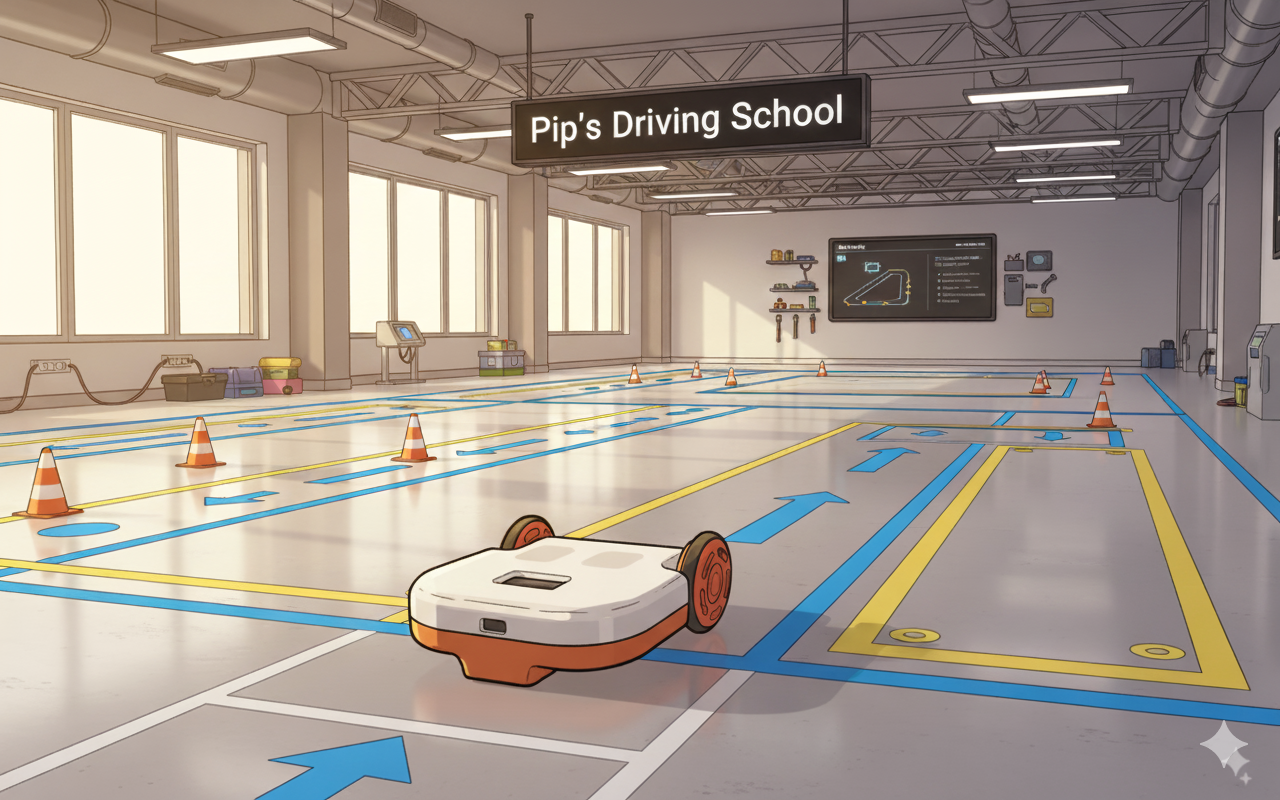
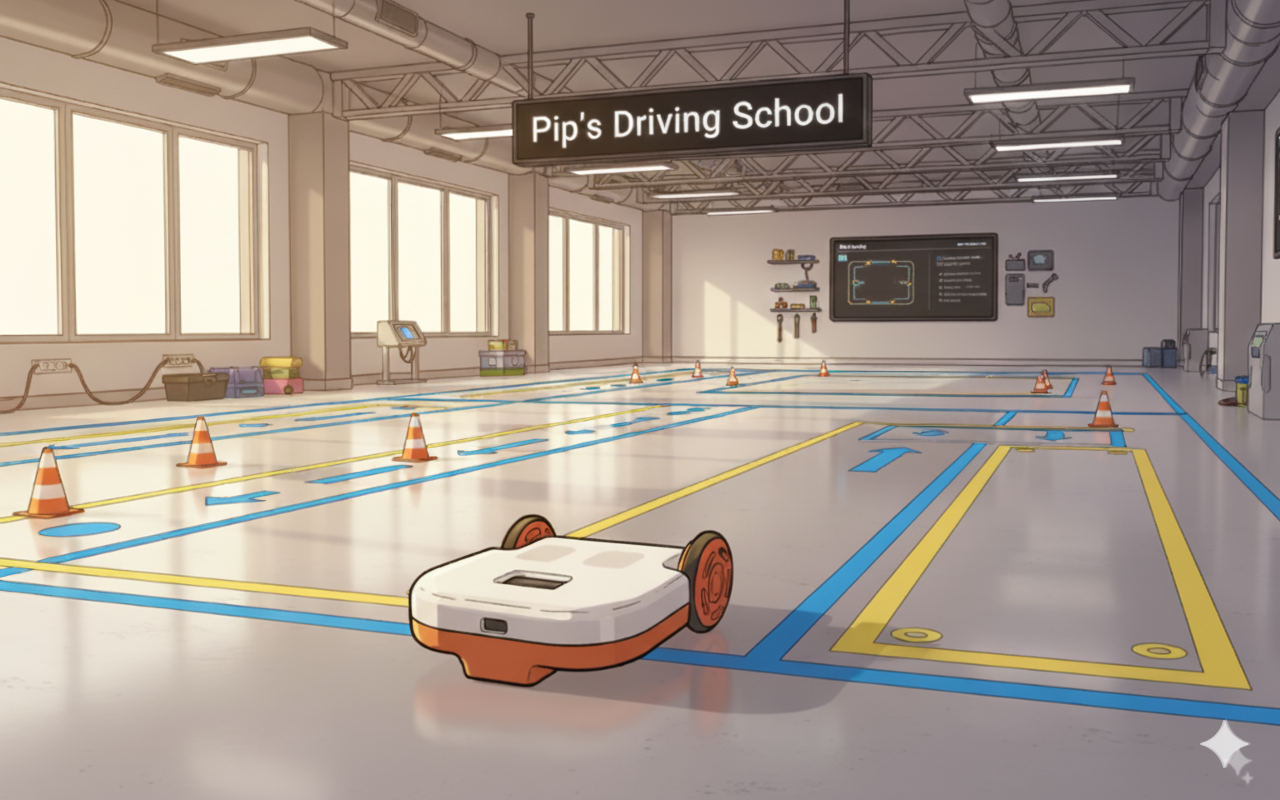
Cleanup

diff --git a/src/components/sandbox/view-only-sandbox/view-only-sandbox.tsx b/src/components/sandbox/view-only-sandbox/view-only-sandbox.tsx
@@ -3,7 +3,7 @@
 import * as Blockly from "blockly"
 import { observer } from "mobx-react"
 import { BlocklyWorkspace } from "react-blockly"
-import { useCallback, useEffect, useMemo, useRef, useState } from "react"
+import { useCallback, useEffect, useMemo, useRef } from "react"
 import { cn } from "../../../lib/shadcn/utils"
 import personalInfoClass from "../../../classes/personal-info-class"
 import initializeBlocks from "../../../utils/blockly/initialize-blocks"
@@ -18,62 +18,54 @@ interface Props {
 function ViewOnlySandbox(props: Props): React.ReactNode {
 	const {
 		blocklyJson,
-		extraClasses = "h-1/2",
+		extraClasses = "h-full",
 	} = props
 	const isDarkMode = personalInfoClass.defaultSiteTheme === "dark"
 	const containerRef = useRef<HTMLDivElement>(null)
 	const workspaceRef = useRef<Blockly.WorkspaceSvg | null>(null)
-	const [isCentered, setIsCentered] = useState(false)
 	console.log("blocklyJson", blocklyJson)
 
 	const workspaceConfiguration = useMemo((): Blockly.BlocklyOptions => {
 		return getWorkspaceConfig(isDarkMode, true)
 	}, [isDarkMode])
 
-	const centerWorkspace = useCallback((): void => {
-		const workspace = workspaceRef.current
-		if (!workspace) return
-
-		// Set the scale to the start scale
-		workspace.setScale(workspaceConfiguration.zoom?.startScale || 1)
-
-		// Center the workspace
-		workspace.scrollCenter()
-		setIsCentered(true)
-	}, [workspaceConfiguration.zoom?.startScale])
-
 	const handleWorkspaceChange = useCallback((workspace: Blockly.WorkspaceSvg): void => {
+		console.log("workspaceChange", workspace)
 		workspaceRef.current = workspace
+	}, [])
 
-		// Center workspace on first initialization
-		if (!isCentered) {
-			// Use a small timeout to ensure the workspace is fully rendered
-			setTimeout((): void => {
-				centerWorkspace()
-			}, 100)
-		}
-	}, [isCentered, centerWorkspace])
-
-	// Reset isCentered when blocklyJson changes
-	useEffect((): void => {
-		setIsCentered(false)
-	}, [blocklyJson])
-
-	// Add effect to center workspace after it's initialized and when blocks change
 	useEffect((): () => void => {
-		if (isCentered) return (): void => {}
-		const timer = setTimeout((): void => {
-			centerWorkspace()
-		}, 200) // Slightly longer delay for view-only to ensure full rendering
+		// Add CSS to prevent widget div from affecting layout
+		const style = document.createElement("style")
+		style.textContent = `
+			.blocklyWidgetDiv {
+				position: fixed !important;
+				z-index: 9999 !important;
+				pointer-events: auto !important;
+			}
 
-		return (): void => clearTimeout(timer)
-	}, [centerWorkspace, blocklyJson, isCentered])
+			.blocklyWidgetDiv * {
+				position: static !important;
+			}
 
-	useEffect((): void => {
-		if (workspaceRef.current) {
-			workspaceRef.current.setTheme(isDarkMode ? darkTheme : lightTheme)
+			.blocklyHtmlInput {
+				position: static !important;
+			}
+
+			/* Prevent scroll anchoring during Blockly operations */
+			body.blockly-widget-active {
+				overflow-anchor: none !important;
+				scroll-behavior: auto !important;
+			}
+		`
+		document.head.appendChild(style)
+
+		return (): void => {
+			if (document.head.contains(style)) {
+				document.head.removeChild(style)
+			}
 		}
-	}, [isDarkMode])
+	}, [])
 
 	useEffect((): () => void => {
 		if (!containerRef.current) return (): void => {}
@@ -81,10 +73,6 @@ function ViewOnlySandbox(props: Props): React.ReactNode {
 		const resizeObserver = new ResizeObserver((): void => {
 			if (workspaceRef.current) {
 				Blockly.svgResize(workspaceRef.current)
-				// Re-center after resize if already centered
-				if (isCentered) {
-					setTimeout((): void => centerWorkspace(), 50)
-				}
 			}
 		})
 
@@ -93,23 +81,33 @@ function ViewOnlySandbox(props: Props): React.ReactNode {
 		return (): void => {
 			resizeObserver.disconnect()
 		}
-	}, [centerWorkspace, isCentered])
+	}, [])
+
+	useEffect((): void => {
+		if (workspaceRef.current) {
+			workspaceRef.current.setTheme(isDarkMode ? darkTheme : lightTheme)
+		}
+	}, [isDarkMode])
 
 	useEffect((): void => {
 		void initializeBlocks()
 	}, [])
 
 	return (
-		<div
-			ref={containerRef}
-			className={cn("relative z-0 rounded-lg overflow-hidden border-2 border-swan", extraClasses)}
-		>
-			<BlocklyWorkspace
-				initialJson={blocklyJson}
-				workspaceConfiguration={workspaceConfiguration}
-				className="h-full duration-0"
-				onWorkspaceChange={handleWorkspaceChange}
-			/>
+		<div className="h-full flex flex-col">
+			<div className="flex-1 min-h-0">
+				<div
+					ref={containerRef}
+					className={cn("relative z-0 rounded-3xl overflow-hidden border-y-2 border-swan h-full", extraClasses)}
+				>
+					<BlocklyWorkspace
+						initialJson={blocklyJson}
+						workspaceConfiguration={workspaceConfiguration}
+						className="h-full w-full duration-0"
+						onWorkspaceChange={handleWorkspaceChange}
+					/>
+				</div>
+			</div>
 		</div>
 	)
 }

diff --git a/src/utils/career-quest/career-quest-right-components/driving-school-components.tsx b/src/utils/career-quest/career-quest-right-components/driving-school-components.tsx
@@ -2,9 +2,7 @@
 
 import { ReactNode } from "react"
 import ViewOnlySandbox from "../../../components/sandbox/view-only-sandbox/view-only-sandbox"
-import ChallengeSection from "../../../components/career/lesson-layout/challenge-section"
 import {
-	DRIVING_SCHOOL_CHALLENGE_S2_P4, DRIVING_SCHOOL_CHALLENGE_S3_P5, DRIVING_SCHOOL_CHALLENGE_S4_P5, DRIVING_SCHOOL_CHALLENGE_S5_P4,
 	DRIVING_SCHOOL_VIEW_ONLY_S2_P1, DRIVING_SCHOOL_VIEW_ONLY_S2_P3, DRIVING_SCHOOL_VIEW_ONLY_S3_P2, DRIVING_SCHOOL_VIEW_ONLY_S3_P4,
 	DRIVING_SCHOOL_VIEW_ONLY_S4_P3, DRIVING_SCHOOL_VIEW_ONLY_S4_P4, DRIVING_SCHOOL_VIEW_ONLY_S5_P2
 } from "@bluedotrobots/common-ts/types/cq-challenge-data/driving-school-challenge-data"
@@ -13,15 +11,11 @@ import {
 const DRIVING_SCHOOL_COMPONENTS: Record<string, () => ReactNode> = {
 	"driving-school-2-1-content": (): ReactNode => <ViewOnlySandbox blocklyJson={DRIVING_SCHOOL_VIEW_ONLY_S2_P1}/>,
 	"driving-school-2-3-content": (): ReactNode => <ViewOnlySandbox blocklyJson={DRIVING_SCHOOL_VIEW_ONLY_S2_P3}/>,
-	"driving-school-2-4-content": (): ReactNode => <ChallengeSection challengeData={DRIVING_SCHOOL_CHALLENGE_S2_P4}/>,
 	"driving-school-3-2-content": (): ReactNode => <ViewOnlySandbox blocklyJson={DRIVING_SCHOOL_VIEW_ONLY_S3_P2}/>,
 	"driving-school-3-4-content": (): ReactNode => <ViewOnlySandbox blocklyJson={DRIVING_SCHOOL_VIEW_ONLY_S3_P4}/>,
-	"driving-school-3-5-content": (): ReactNode => <ChallengeSection challengeData={DRIVING_SCHOOL_CHALLENGE_S3_P5}/>,
 	"driving-school-4-3-content": (): ReactNode => <ViewOnlySandbox blocklyJson={DRIVING_SCHOOL_VIEW_ONLY_S4_P3}/>,
 	"driving-school-4-4-content": (): ReactNode => <ViewOnlySandbox blocklyJson={DRIVING_SCHOOL_VIEW_ONLY_S4_P4}/>,
-	"driving-school-4-5-content": (): ReactNode => <ChallengeSection challengeData={DRIVING_SCHOOL_CHALLENGE_S4_P5}/>,
 	"driving-school-5-2-content": (): ReactNode => <ViewOnlySandbox blocklyJson={DRIVING_SCHOOL_VIEW_ONLY_S5_P2}/>,
-	"driving-school-5-4-content": (): ReactNode => <ChallengeSection challengeData={DRIVING_SCHOOL_CHALLENGE_S5_P4}/>,
 }
 
 export default DRIVING_SCHOOL_COMPONENTS

diff --git a/src/utils/career-quest/career-quest-right-components/meet-pip-components.tsx b/src/utils/career-quest/career-quest-right-components/meet-pip-components.tsx
@@ -14,7 +14,6 @@ import MeetPipS4P4 from "../../../components/career-quest/cq-right-components/me
 
 // eslint-disable-next-line @typescript-eslint/naming-convention
 const MEET_PIP_COMPONENTS: Record<string, () => ReactNode> = {
-	// Bot icons for different themes
 	"meet-pip-s2-p3-color-picker": (): ReactNode => <MeetPipS2P3ColorPicker />,
 	"meet-pip-s3-p4-display": (): ReactNode => <MeetPipS3P4Display />,
 	"meet-pip-s4-p4-speaker": (): ReactNode => <MeetPipS4P4 />,
